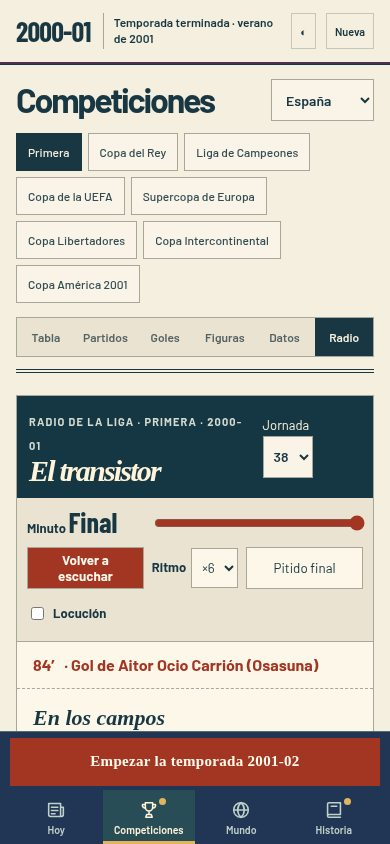
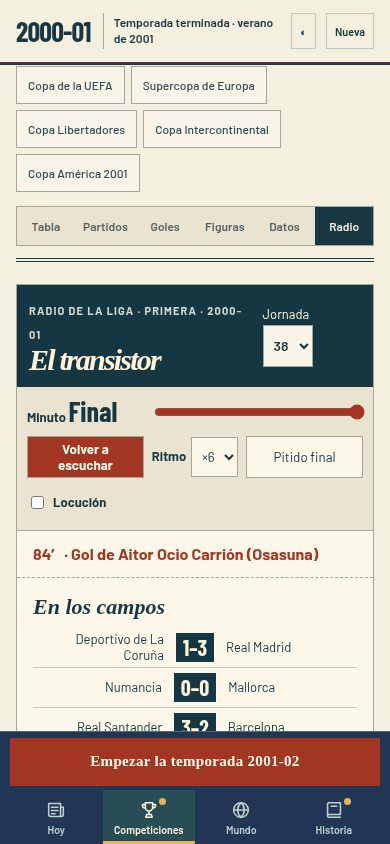
Resalta los goles y abre las actas desde la radio

diff --git a/js/app.js b/js/app.js
@@ -3291,8 +3291,17 @@ function sintonizarRadio() {
       if (tabla[0].nombre !== anterior.nombre) relevo = `<p class="relevo"><b>Cambio de líder.</b> ${esc(tabla[0].nombre)} adelanta a ${esc(anterior.nombre)} en la tabla.</p>`;
     }
   }
+  const enGol = new Set(ultimos.filter((e) => e.min === minuto).map((e) => e.club));
+  const marcadores = ms.map((m, i) => {
+    const tocado = enGol.has(m.local) || enGol.has(m.visita);
+    const marcador = parciales[i] ? parciales[i].ga + '–' + parciales[i].gb : 's/d';
+    const texto = `<span>${esc(m.local)}</span><b>${marcador}</b><span>${esc(m.visita)}</span>`;
+    return final
+      ? `<button type="button" class="radio-partido radio-acta" data-partido="${regP(m, L.grupo + ' · J' + j + ' · ' + V.temporada)}">${texto}</button>`
+      : `<div class="radio-partido${tocado ? ' radio-gol' : ''}">${texto}</div>`;
+  }).join('');
   $('radio-emision').innerHTML = `<p class="radio-boletin" aria-live="polite">${ultimos.length ? ultimos.map((e) => `${e.min}′ · Gol de ${esc(e.quien)} (${esc(e.club)})`).join(' / ') : minuto ? 'Todavía no se ha marcado.' : 'Los equipos saltan al campo.'}</p>${relevo}
-    <div class="radio-pliegos"><div><h3>En los campos</h3>${ms.map((m, i) => `<div class="radio-partido"><span>${esc(m.local)}</span><b>${parciales[i] ? parciales[i].ga + '–' + parciales[i].gb : 's/d'}</b><span>${esc(m.visita)}</span></div>`).join('')}</div>
+    <div class="radio-pliegos"><div><h3>En los campos</h3>${marcadores}${final ? '<p class="nota-pie">Pulsa un marcador para leer el acta.</p>' : ''}</div>
     <div><h3>${final ? 'Tabla al cierre' : minuto ? 'Tabla provisional' : 'Antes de la jornada'}</h3>${parciales.includes(null) && !final && minuto ? '<p>Faltan minutos de gol para calcular la tabla provisional.</p>' : `<ol class="radio-tabla">${tabla.map((t) => `<li><span>${esc(t.nombre)}</span><b>${t.pts} pts</b></li>`).join('')}</ol>`}</div></div>`;
 }
 
@@ -4486,7 +4495,7 @@ document.addEventListener('keydown', (e) => {
   else if (k2 === 'm') jugar('mes');
   else if (k2 === 'f') saltarAlFinal();
   else if (k2 === 'enter' && finDeTemporada()) siguienteTemporada();
-  else if ('1234'.includes(k2) && k2) { seccion = ['hoy', 'comp', 'mundo', 'historia'][+k2 - 1]; nuevoEn.delete(seccion); cerrarFicha(); pintar(); }
+  else if ('1234'.includes(k2) && k2) { pausarRadio(); seccion = ['hoy', 'comp', 'mundo', 'historia'][+k2 - 1]; nuevoEn.delete(seccion); cerrarFicha(); pintar(); }
 });
 $('nueva').addEventListener('click', () => { pausarRadio(); parar(); abrirInicio(); });
 $('seguirPartida').addEventListener('click', () => { $('inicio').hidden = true; if (S) ponerEra(S.anio); pintar(); });

diff --git a/css/programa.css b/css/programa.css
@@ -242,3 +242,7 @@
 .portadilla-datos :is(.nombre,.club) { font:inherit; color:inherit; min-height:33px; text-align:left; white-space:normal; }
 .sello-titulo { color:#ffdb91; font-weight:700; text-underline-offset:3px; text-decoration:underline; }
 .indice-cierre button { border:0; background:none; color:#fff0d4; font:600 15px/1 var(--texto); text-decoration:underline; text-underline-offset:4px; padding:8px 0; }
+.radio-gol { background:var(--hundido); box-shadow:inset 3px 0 var(--bermellon); font-weight:700; }
+.radio-acta { width:100%; border:0; border-bottom:1px solid var(--linea2); color:var(--tinta); background:none; text-align:left; }
+.radio-acta:hover { background:var(--hundido); }
+.radio-tabla > li:first-child { font-weight:700; color:var(--rojo-txt); }
